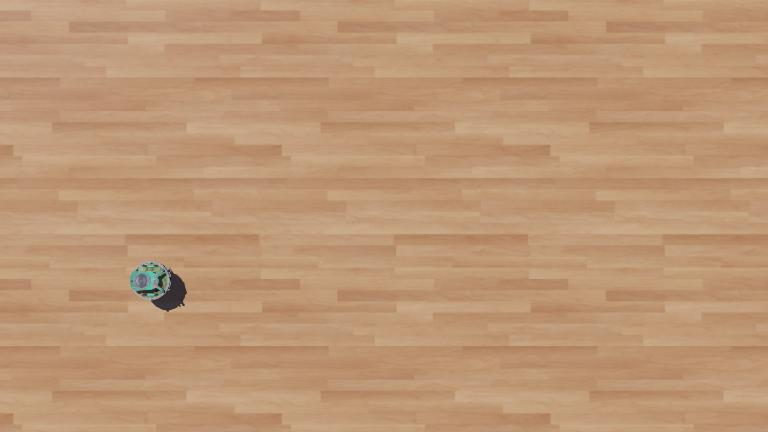
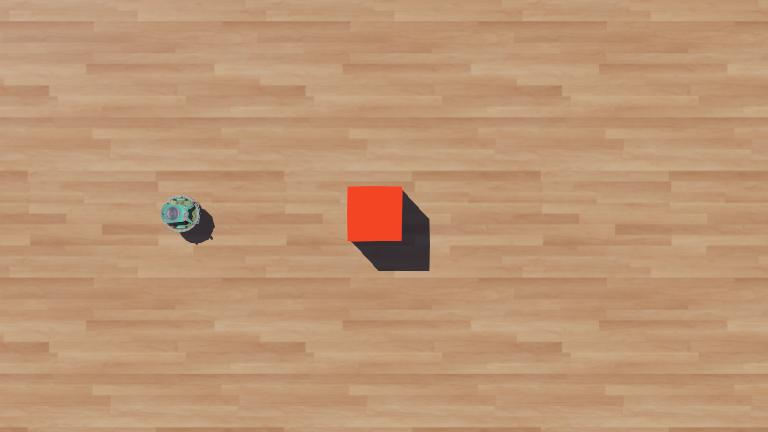
add proxymity sensor

diff --git a/webots/controllers/llm_controller/model.py b/webots/controllers/llm_controller/model.py
@@ -38,6 +38,35 @@ WEBOTS_MOVE_SYS_PROMPT = """
 请直接输出内容，不要用 Markdown
 """
 
+WEBOTS_DRIVE_SYS_PROMPT = """
+/no_think
+请不要思考，按照以下示例要求处理用户输入，并生成相应的 JSON 格式的结果：
+
+解释用户输入：
+输入为 e-puck 的距离传感器的值，当某一项的值 > 80.0 时，说明在该方向遇到了障碍物，需要向相反的方向旋转避开。
+
+示例1：
+用户： 64.2372960348239,64.43472856799397,60.673098996510696,64.68005449001203,66.93555935014602,64.23424360041922,63.998718518724935,65.72668119056857
+输出：{"type": "move", "direction": "forward", "distance": "0.1"}
+解释：所有方向都没有障碍物，则向前移动 0.1米
+示例2：
+用户： 131.2372960348239,64.43472856799397,60.673098996510696,64.68005449001203,66.93555935014602,64.23424360041922,63.998718518724935,126.72668119056857
+输出：{"type": "rotate", "direction": "left", "angle": "90"}
+解释：前方两个传感器 0 和 7 的值都 > 80.0，说明在前方有障碍物，需要向左（或向右）转 90 度避开
+示例3：
+用户： 64.2372960348239,64.43472856799397,120.673098996510696,79.68005449001203,66.93555935014602,64.23424360041922,63.998718518724935,65.72668119056857
+输出：{"type": "move", "direction": "forward", "distance": "0.1"}
+解释：右侧有障碍物，但正前方没有障碍物，则向前移动 0.1米
+
+字段说明：
+- type: 枚举，允许的值有 [move, rotate]
+- direction: 枚举，允许的值有 [forward, back, left, right]
+- distance: float 类型
+- angle: float 类型
+
+请直接输出内容，不要用 Markdown
+"""
+
 THINK_PTN = "<think>\n\n</think>\n\n"
 
 
@@ -68,6 +97,20 @@ class SimpleLLM:
             model=model,
             messages=[
                 {"role": "system", "content": WEBOTS_MOVE_SYS_PROMPT},
+                {"role": "user", "content": prompt},
+            ],
+            temperature=0,
+            seed=0,
+        )
+        return resp.choices[0].message.content.replace(THINK_PTN, "")
+
+
+    def drive(self, prompt: str, model: str = "qwen3:4b"):
+        """drive based on inputs"""
+        resp = self.client.chat.completions.create(
+            model=model,
+            messages=[
+                {"role": "system", "content": WEBOTS_DRIVE_SYS_PROMPT},
                 {"role": "user", "content": prompt},
             ],
             temperature=0,

diff --git a/webots/controllers/llm_controller/llm_controller.py b/webots/controllers/llm_controller/llm_controller.py
@@ -30,7 +30,17 @@ timestep = int(robot.getBasicTimeStep())
 left_motor = robot.getDevice("left wheel motor")
 right_motor = robot.getDevice("right wheel motor")
 gyro = robot.getDevice("gyro")
-gyro.enable(timestep)
+ps_list = []
+ps_names = [
+    "ps0",
+    "ps1",
+    "ps2",
+    "ps3",
+    "ps4",
+    "ps5",
+    "ps6",
+    "ps7",
+]
 
 
 def init():
@@ -38,6 +48,11 @@ def init():
     right_motor.setPosition(float("inf"))
     left_motor.setVelocity(0.0)
     right_motor.setVelocity(0.0)
+    gyro.enable(timestep)
+    for name in ps_names:
+        d = robot.getDevice(name)
+        ps_list.append(d)
+        d.enable(timestep)
 
 
 def calculate_rotation_time(degrees, speed):
@@ -134,14 +149,37 @@ processor_thread.start()
 threading.current_thread().name = "main"
 
 
-actions = ai.think_chain("正前方有障碍物")
-task_processor.add_batch(actions)
+# actions = ai.think_chain("正前方有障碍物")
+# task_processor.add_batch(actions)
 
 # action = ai.think("向前移动 20 厘米")
 # task_processor.add_task(action)
 
+thinking = False
+
+def on_task_completed():
+    global thinking
+    thinking = False
+
 while robot.step(timestep) != -1:
     # log.debug("main loop is running...")
+
+    ps_values = []
+    found_obstacle = False
+    for ps in ps_list:
+        v = ps.getValue()
+        ps_values.append(v)
+        if v > 80.0:
+            found_obstacle = True
+
+    if not thinking and found_obstacle:
+        thinking = True
+        log.info(f"found obstacle: {ps_values}")
+        action = ai.drive(",".join([str(num) for num in ps_values]))
+        log.info(action)
+        task_processor.add_task(action, on_task_completed)
+        # thinking = False
+
     time.sleep(1)
     # if random.random() < 0.1:
     #     action = ai.think("向前移动 20 厘米")

diff --git a/webots/controllers/llm_controller/intelligent.py b/webots/controllers/llm_controller/intelligent.py
@@ -62,6 +62,20 @@ class SimpleAi:
 
         return action
 
+    def drive(self, input: str) -> dict:
+        self.log.info(f"thinking: {input}")
+        start = time.time()
+        resp = self.llm.drive(input)
+        think_time = time.time() - start
+        self.log.info(f"end, think time: {round(think_time, 2)}s")
+        action = None
+        try:
+            action = json.loads(resp)
+        except:
+            self.log.error(f"invalid action response from LLM: {resp}")
+
+        return action
+
     def think_chain(self, input: str) -> list:
         self.log.info(f"thinking: {input}")
         start = time.time()
